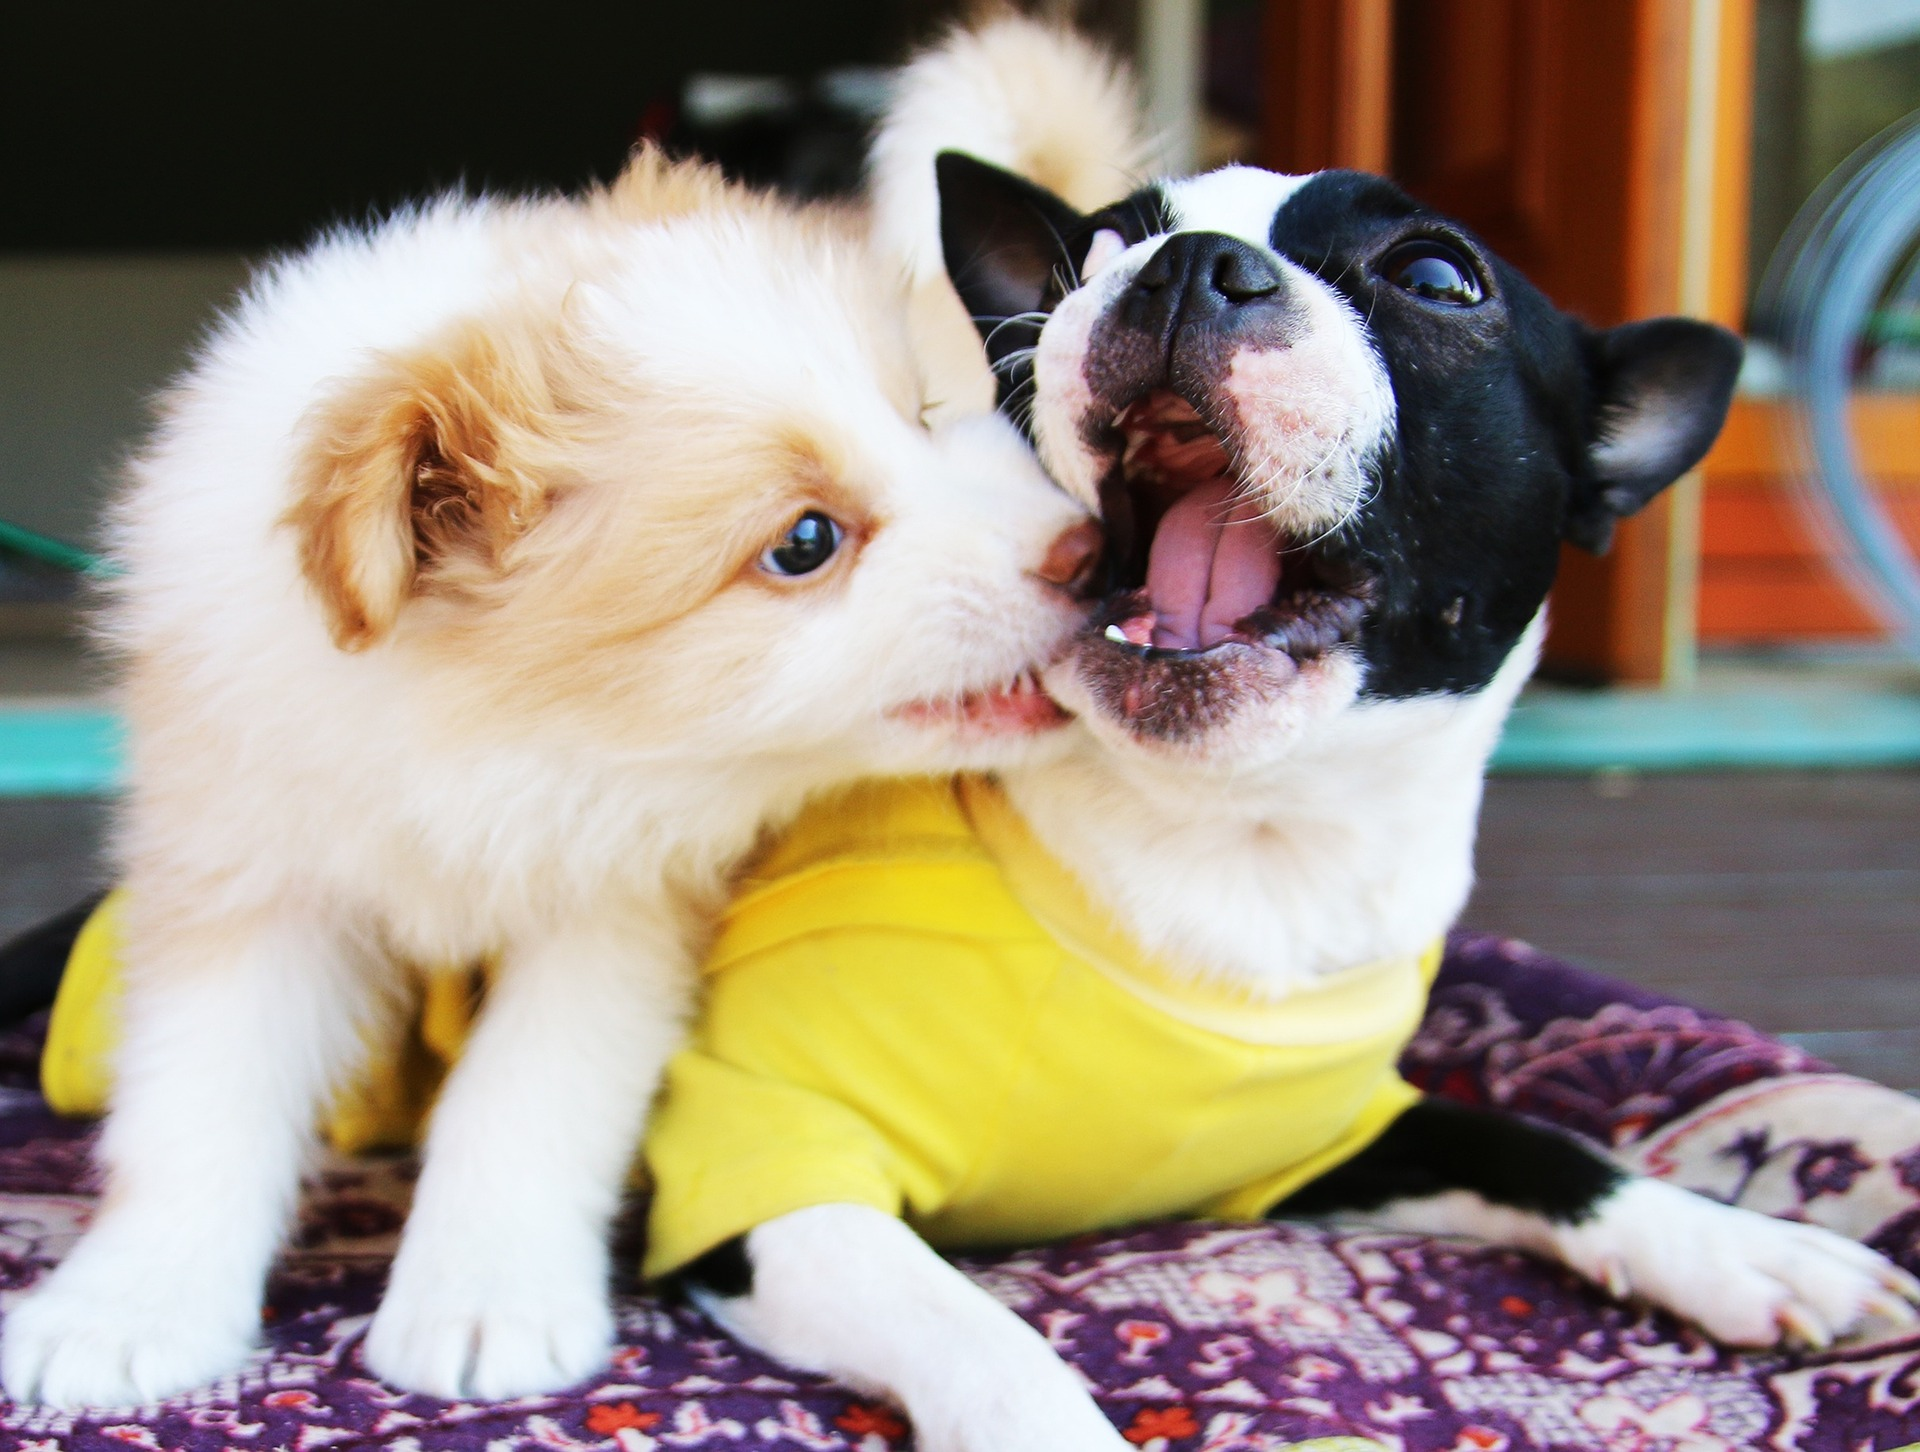
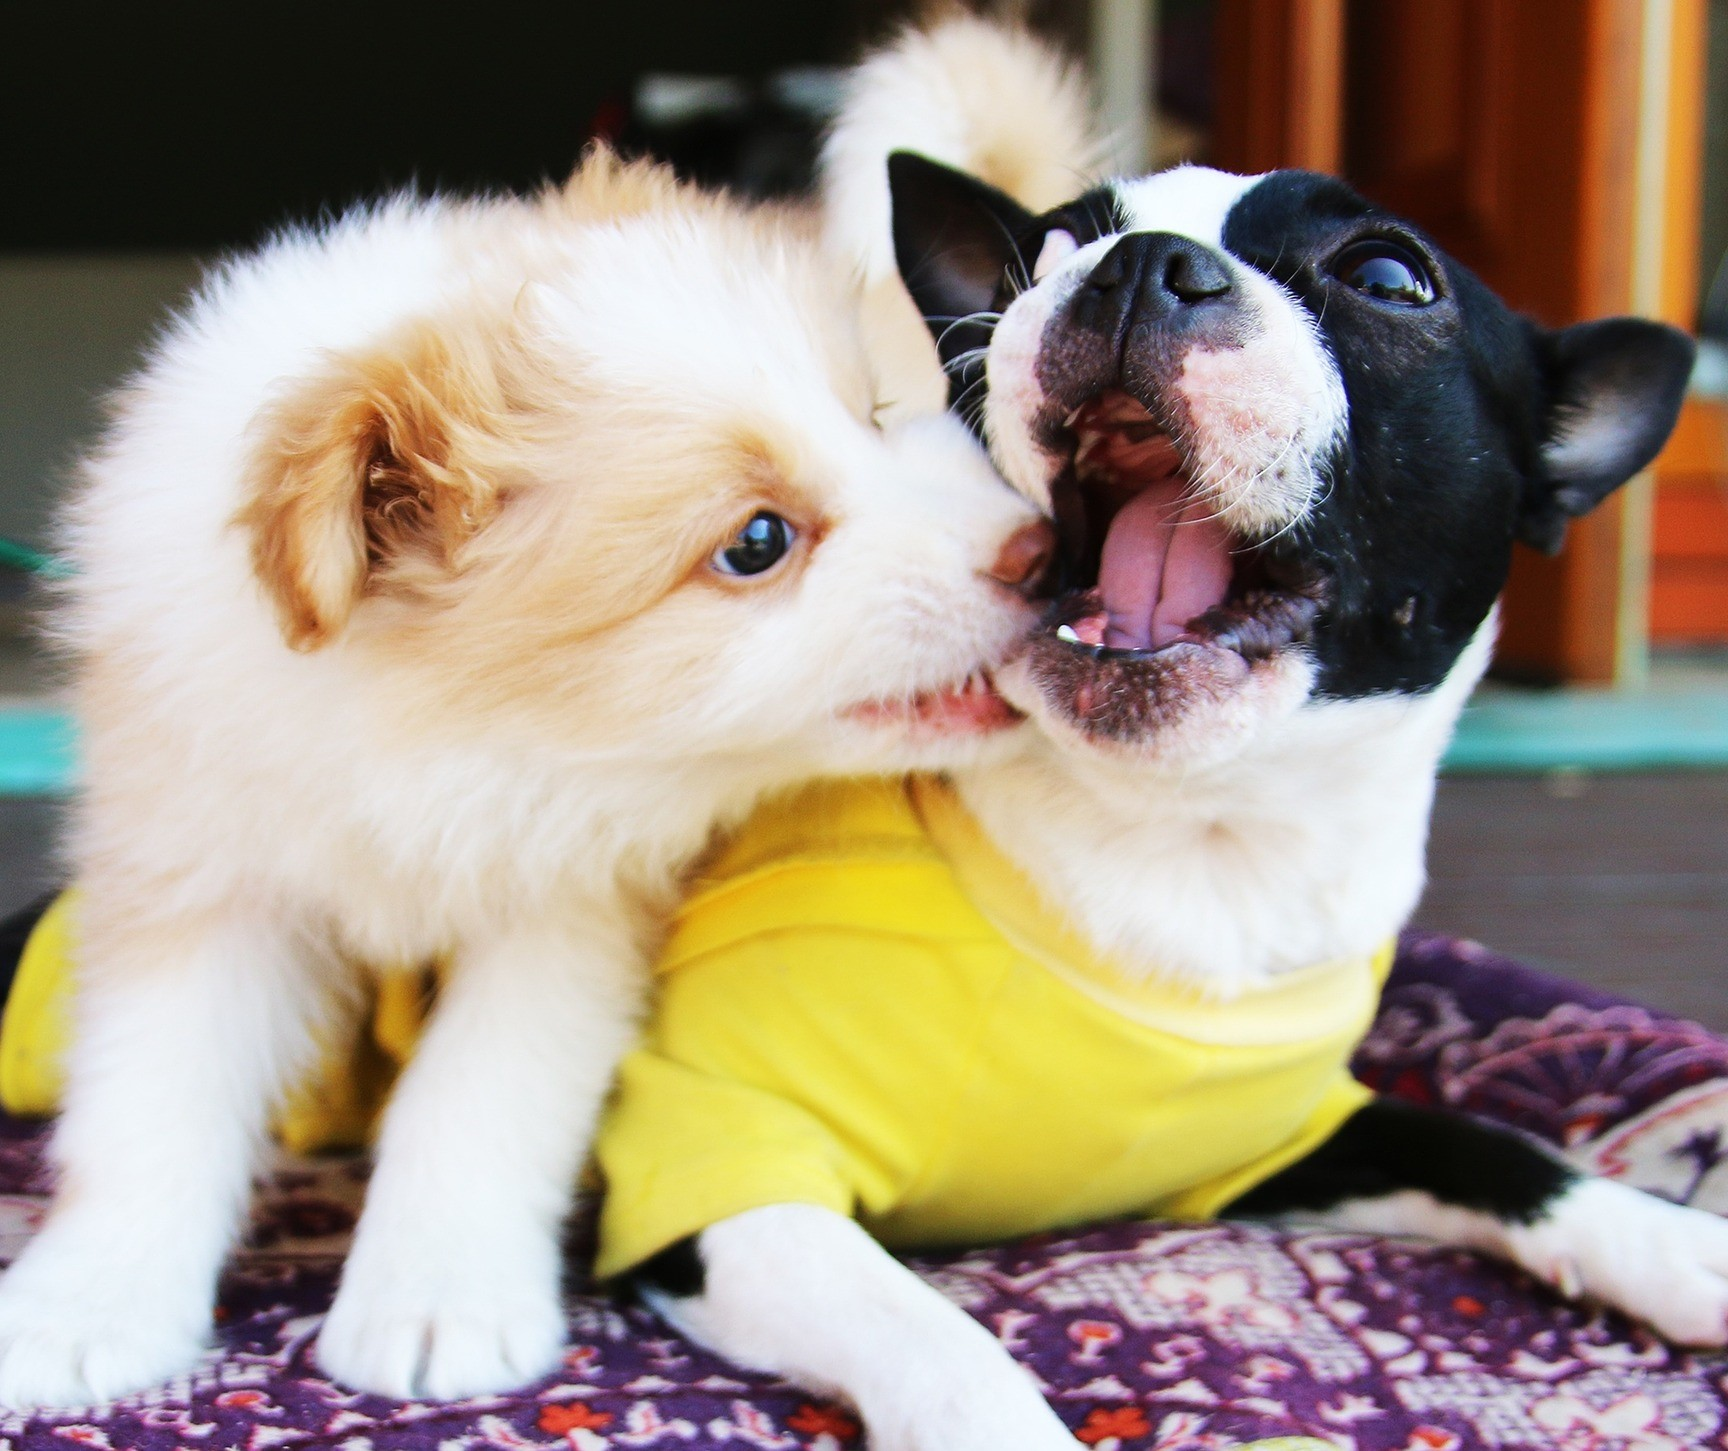
fixes distortion

diff --git a/index.html b/index.html
@@ -44,19 +44,17 @@
 					</table>
 				</div>
 				<br>
-				<br>
 				<h2> LOCATIONS: </h2>
 				<ul>
 					<li> 122 Birchwood Ave, Cambridge, MA 02138 </li>
 					<li> 78 Fort St, Boston, MA 02114 </li>
 					<li> 99 Barton Rd, Boston, MA 02114 </li>
 				</ul>
-				<br>
 			</div>
 
 			<div class="rightColumn" >
-				<image src="twodogs.jpg" id="twodogs"/>
-				<image src="huskiepaw.jpg" id="huskiepaw"/>
+				<image src="twodogs.jpg"/>
+				<image src="huskiepaw.jpg"/>
 			</div>
 
 		</div>

diff --git a/cafek9.css b/cafek9.css
@@ -1,7 +1,6 @@
 body {
 	margin: 0px; 
 	background-color: #E6E6FA;
-
 }
 
 .banner {	
@@ -79,11 +78,8 @@ body {
 	flex: 30%;
 	display: flex;
 	flex-direction: column;
-}
-
-#twodogs, #huskiepaw {
-	height: 100%;
-	width: 100%;
+	height: auto;
+	width: 10%;
 }
 
 .footer {
